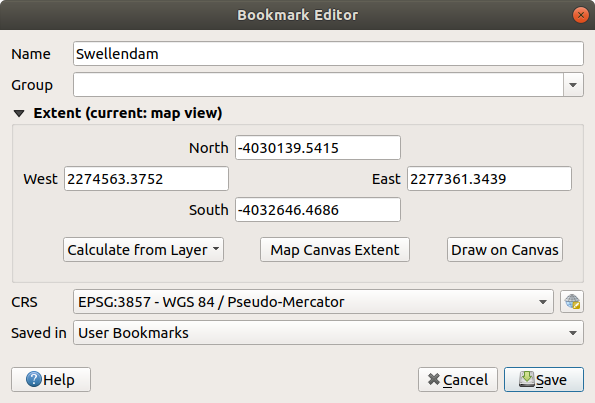
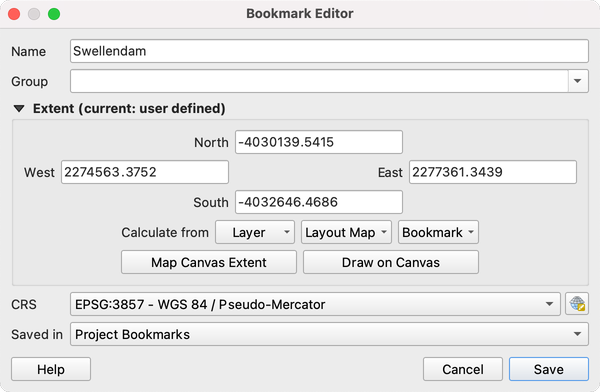
updated spatial bookmark documentation as per fix #38602 (#2)
Documentation for QGIS feature introduced here: qgis/QGIS#47426
Documentation issue #7417

Within user_manual > introduction > browser.rst:
Kept paragraph under Spatial Bookmarks, detailing the bookmark group context menu options (including the Rename Bookmark Group fix)

Within user_manual > introduction > img folder:
Removed original bookmark_editor.png
Renamed bookmark_editor_project_bookmarks_default.png to bookmark_editor.png

Within user_manual > introduction > general_tools.rst:
Changed sentence under Creating a Bookmark, now detailing that the Bookmark Editor Dialog defaults to saving in User Bookmarks
Set img under Creating a Bookmark from bookmark_editor_project_bookmarks_default.png to bookmark_editor.png

All changes done under updated-spatial-bookmark-documentation-fix-#38602 branch
Let me know if you have any questions!

diff --git a/docs/user_manual/introduction/general_tools.rst b/docs/user_manual/introduction/general_tools.rst
@@ -982,7 +982,7 @@ To create a bookmark:
 
    .. _figure_create_bookmarks:
 
-   .. figure:: img/bookmark_editor_project_bookmarks_default.png
+   .. figure:: img/bookmark_editor.png
       :align: center
 
       The Bookmark Editor Dialog
@@ -994,7 +994,7 @@ To create a bookmark:
 #. Indicate the :guilabel:`CRS` to use for the extent
 #. Select whether the bookmark will be :guilabel:`Saved in` :guilabel:`User
    Bookmarks` or :guilabel:`Project Bookmarks` (by default, this drop-down list 
-   is set to :guilabel:`Project Bookmarks`)
+   is set to :guilabel:`User Bookmarks`)
 #. Press :guilabel:`Save` to add the bookmark to the list
 
 Note that you can have multiple bookmarks with the same name.
